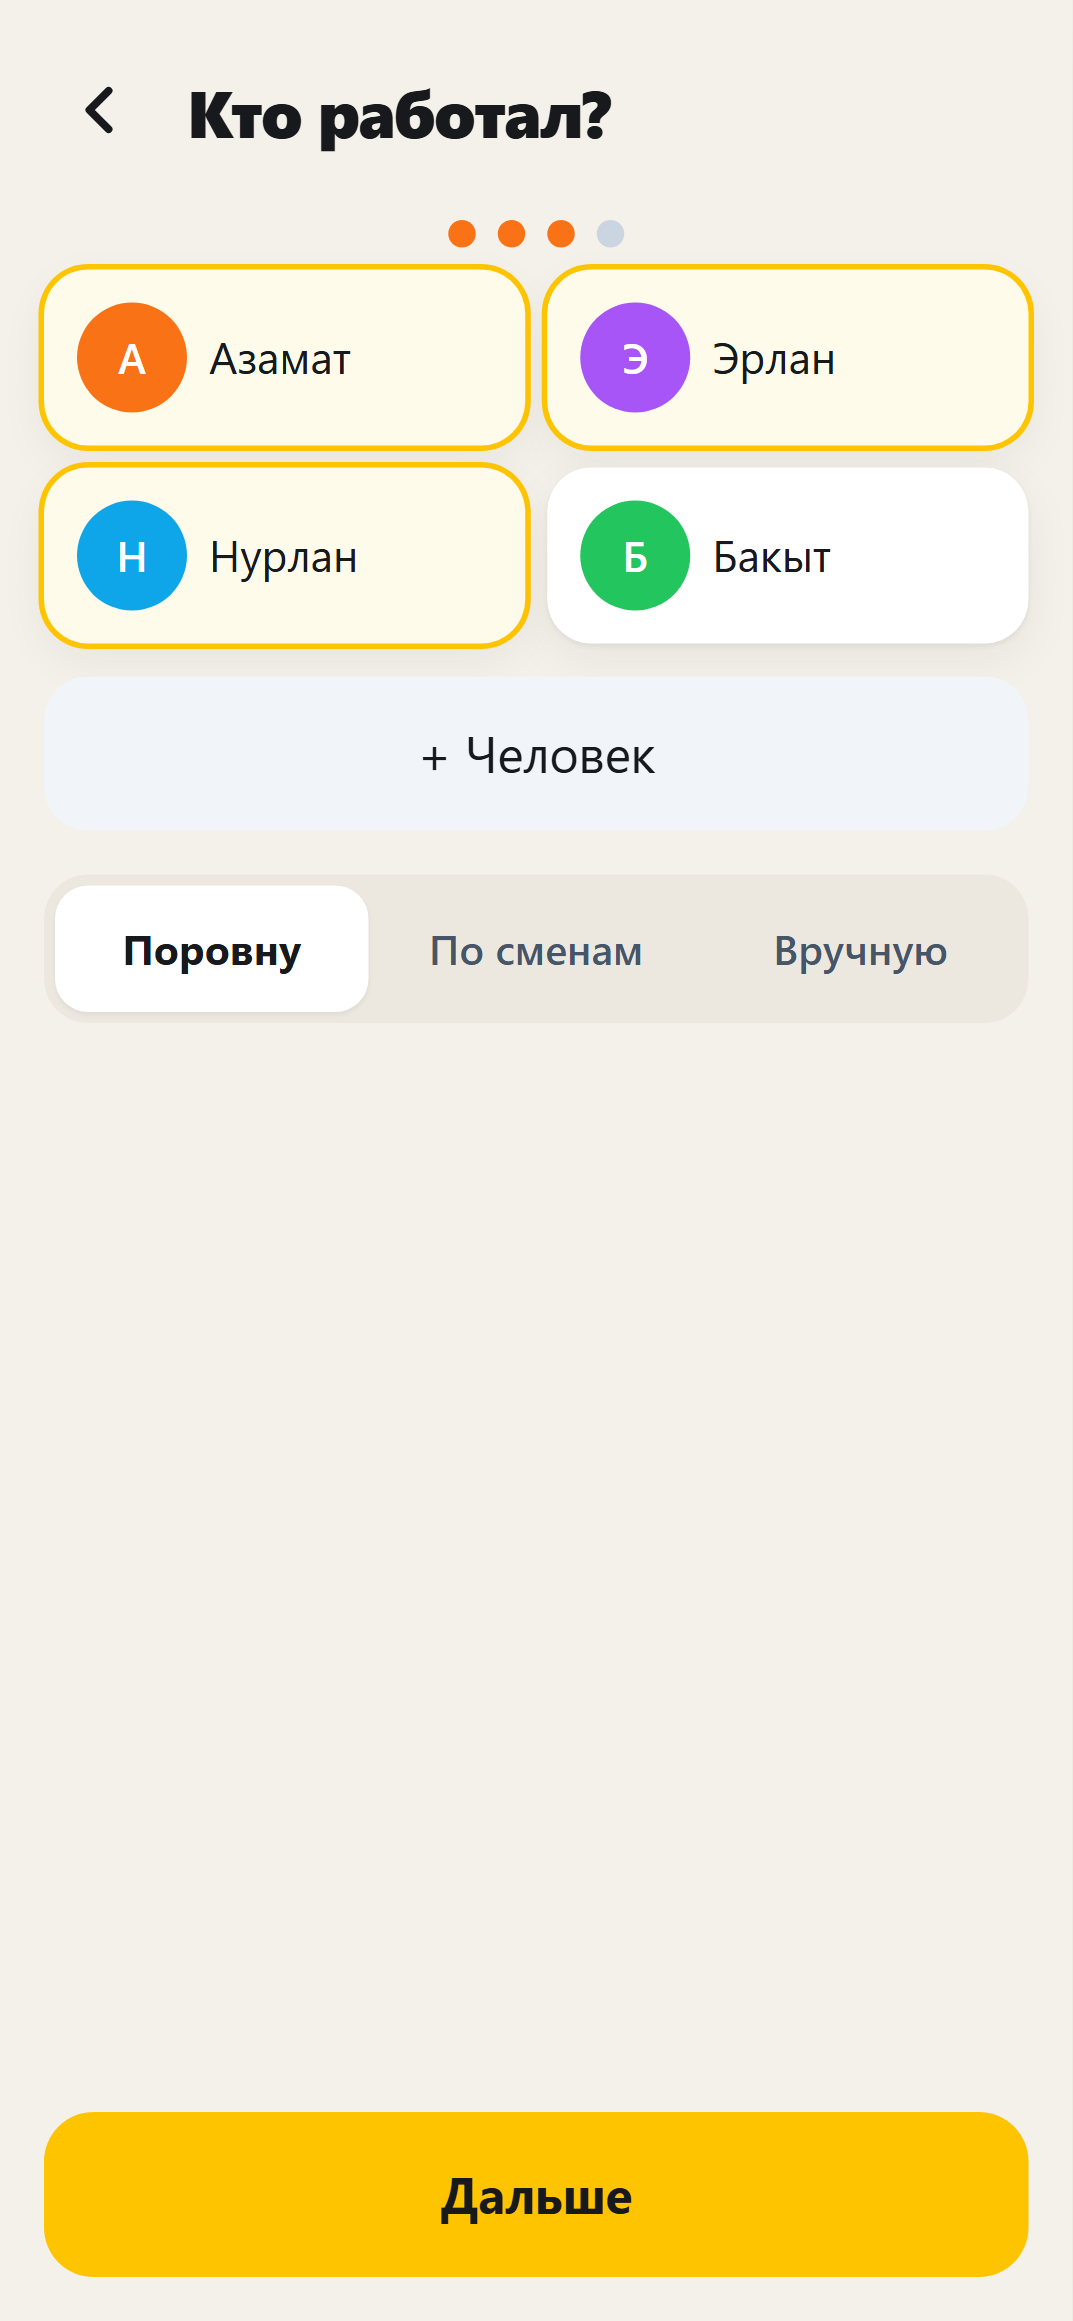
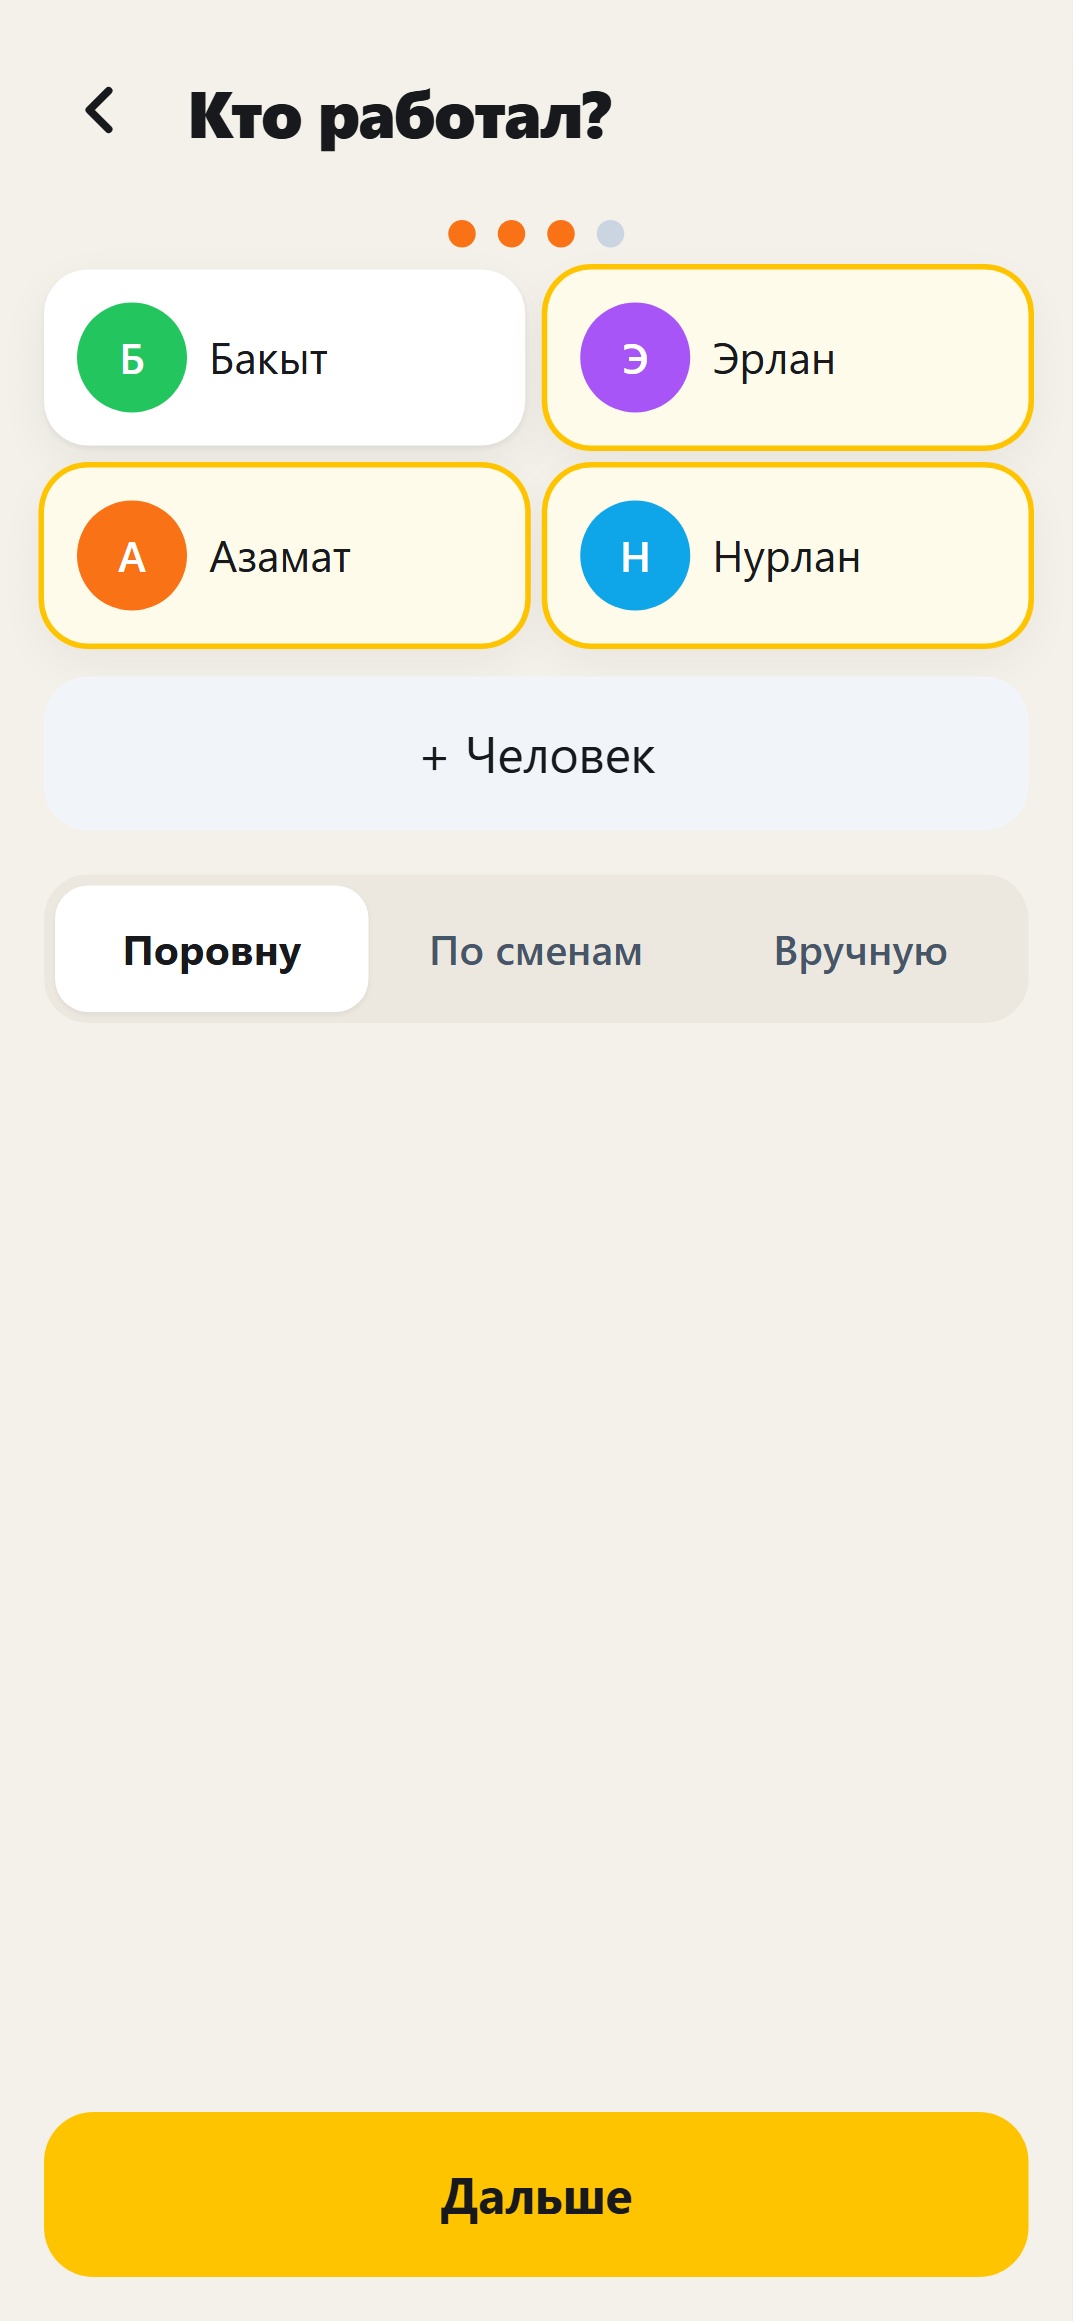
Добивка по адверсальной проверке
Перекличка: самоидентифицирующийся запрос — сохранённые галочки видны
при повторном открытии и смене даты; архивный объект не принимает записи;
правка записи остаётся в объекте самой записи, даже закрытом; тройки
чисел в карточках влезают в 360px.

diff --git a/src/screens/Objects.tsx b/src/screens/Objects.tsx
@@ -1,7 +1,7 @@
 import { useNavigate } from 'react-router-dom';
 import { Plus } from 'lucide-react';
 import { useT, useLangStore, formatDateShort } from '../i18n';
-import { formatMoney } from '../core/format';
+import { formatMoney, groupDigits } from '../core/format';
 import { useEntries, useObjects, useReceipts, useAdjustments, useSettings, useExpenses, byObject } from '../lib/hooks';
 import {
   activeEntries, doneTotal, acceptedTotal, customerOwes, notDeleted, objectStage,
@@ -63,9 +63,9 @@ export function Objects() {
               </span>
               <span className="mt-3 block"><StageStrip stage={s.stage} /></span>
               <span className="mt-3 grid grid-cols-3 gap-2">
-                <span className="min-w-0"><span className="block text-[12px] font-medium text-slate-500">{t('objects.done')}</span><span className="block truncate text-[15px] font-extrabold">{formatMoney(s.done)}</span></span>
-                <span className="min-w-0 text-center"><span className="block text-[12px] font-medium text-slate-500">{t('objects.accepted')}</span><span className="block truncate text-[15px] font-extrabold">{formatMoney(s.accepted)}</span></span>
-                <span className="min-w-0 text-right"><span className="block text-[12px] font-medium text-slate-500">{t('objects.owed')}</span><span className={`block truncate text-[15px] font-extrabold ${s.owed > 0 ? 'text-money-in' : ''}`}>{formatMoney(Math.max(0, s.owed))}</span></span>
+                <span className="min-w-0"><span className="block text-[12px] font-medium text-slate-500">{t('objects.done')}</span><span className="block truncate text-[15px] font-extrabold">{groupDigits(Math.round(s.done / 100))}</span></span>
+                <span className="min-w-0 text-center"><span className="block text-[12px] font-medium text-slate-500">{t('objects.accepted')}</span><span className="block truncate text-[15px] font-extrabold">{groupDigits(Math.round(s.accepted / 100))}</span></span>
+                <span className="min-w-0 text-right"><span className="block text-[12px] font-medium text-slate-500">{t('objects.owed')}</span><span className={`block truncate text-[15px] font-extrabold ${s.owed > 0 ? 'text-money-in' : ''}`}>{groupDigits(Math.round(Math.max(0, s.owed) / 100))}</span></span>
               </span>
             </Card>
           );

diff --git a/src/screens/WorkerCard.tsx b/src/screens/WorkerCard.tsx
@@ -6,7 +6,7 @@ import { useEntries, usePayouts, useWorkers, useWorkTypes } from '../lib/hooks';
 import {
   activeEntries, accruedForWorker, paidToWorker, withheldFromWorker, workerBalance, notDeleted,
 } from '../core/calc';
-import { formatMoney, formatMoneyExact, formatQuantity } from '../core/format';
+import { formatMoney, formatMoneyExact, formatQuantity, groupDigits } from '../core/format';
 import { updateWorker, nowIso } from '../db/repo';
 import { sendText } from '../lib/report';
 import { useToast } from '../state/toast';
@@ -116,9 +116,9 @@ export function WorkerCard() {
             {formatMoney(Math.abs(balance))}
           </span>
           <span className="mt-3 grid grid-cols-3 gap-2">
-            <span className="min-w-0"><span className="block text-[12px] font-medium text-slate-500">{t('workers.earned')}</span><span className="block truncate text-[15px] font-extrabold">{formatMoney(accrued)}</span></span>
-            <span className="min-w-0 text-center"><span className="block text-[12px] font-medium text-slate-500">{t('workers.got')}</span><span className="block truncate text-[15px] font-extrabold">{formatMoney(paid)}</span></span>
-            <span className="min-w-0 text-right"><span className="block text-[12px] font-medium text-slate-500">{t('workers.withheld')}</span><span className="block truncate text-[15px] font-extrabold">{formatMoney(withheld)}</span></span>
+            <span className="min-w-0"><span className="block text-[12px] font-medium text-slate-500">{t('workers.earned')}</span><span className="block truncate text-[15px] font-extrabold">{groupDigits(Math.round(accrued / 100))}</span></span>
+            <span className="min-w-0 text-center"><span className="block text-[12px] font-medium text-slate-500">{t('workers.got')}</span><span className="block truncate text-[15px] font-extrabold">{groupDigits(Math.round(paid / 100))}</span></span>
+            <span className="min-w-0 text-right"><span className="block text-[12px] font-medium text-slate-500">{t('workers.withheld')}</span><span className="block truncate text-[15px] font-extrabold">{groupDigits(Math.round(withheld / 100))}</span></span>
           </span>
         </Card>
 

diff --git a/src/screens/AttendanceToday.tsx b/src/screens/AttendanceToday.tsx
@@ -1,8 +1,10 @@
 import { useEffect, useState } from 'react';
 import { useNavigate } from 'react-router-dom';
+import { useLiveQuery } from 'dexie-react-hooks';
 import { Check } from 'lucide-react';
 import { useT, useLangStore, formatDateShort } from '../i18n';
-import { useActiveObject, useAttendance, useWorkers } from '../lib/hooks';
+import { db } from '../db/db';
+import { useActiveObject, useWorkers } from '../lib/hooks';
 import { setAttendance, todayStr } from '../db/repo';
 import { useToast } from '../state/toast';
 import { ScreenHeader } from '../components/ScreenHeader';
@@ -19,16 +21,22 @@ export function AttendanceToday() {
   const activeObject = useActiveObject();
   const workers = useWorkers().filter((w) => !w.archivedAt);
   const [date, setDate] = useState(todayStr());
-  const saved = useAttendance(activeObject?.id, date);
   const [ids, setIds] = useState<string[]>([]);
   const [loadedFor, setLoadedFor] = useState('');
 
-  // Подставляем сохранённое за день, когда запрос за этот день действительно отработал
+  // Результат сам называет свой ключ: при смене объекта или даты хук отдаёт
+  // устаревшее значение прошлого запроса, и по ключу мы его отбрасываем
+  const saved = useLiveQuery(async () => {
+    if (!activeObject) return undefined;
+    const rec = (await db.attendance.where({ objectId: activeObject.id, date }).first()) ?? null;
+    return { key: `${activeObject.id}:${date}`, rec };
+  }, [activeObject?.id, date]);
+
   useEffect(() => {
-    if (!activeObject || saved === undefined) return;
+    if (!activeObject || !saved) return;
     const key = `${activeObject.id}:${date}`;
-    if (loadedFor === key) return;
-    setIds(saved?.workerIds ?? []);
+    if (saved.key !== key || loadedFor === key) return;
+    setIds(saved.rec?.workerIds ?? []);
     setLoadedFor(key);
   }, [saved, date, activeObject, loadedFor]);
 

diff --git a/src/screens/WorkWizard.tsx b/src/screens/WorkWizard.tsx
@@ -181,17 +181,19 @@ export function WorkWizard() {
   const manualSum = shares.reduce((s, x) => s + x.amount, 0);
   const manualRemainder = totals.workersTotal - manualSum;
   const manualInvalid = draft.splitMode === 'manual' && manualRemainder !== 0;
-  const canSave = quantity > 0 && draft.workerIds.length > 0 && !manualInvalid && !!workType && !!activeObject;
+  // Правка живёт в объекте самой записи, даже если он уже закрыт
+  const targetObjectId = isEdit ? editEntry!.objectId : activeObject?.id;
+  const canSave = quantity > 0 && draft.workerIds.length > 0 && !manualInvalid && !!workType && !!targetObjectId;
 
   async function save() {
-    if (!canSave || !workType || !activeObject) return;
+    if (!canSave || !workType || !targetObjectId) return;
     let note = draft.note.trim();
     if (draft.areaMode) {
       const dims = `${draft.lengthInput}×${draft.heightInput}${draft.openingInputs.length ? ` − ${draft.openingInputs.join(' − ')}` : ''} м²`;
       note = note ? `${dims}. ${note}` : dims;
     }
     const data = {
-      objectId: activeObject.id,
+      objectId: targetObjectId,
       workTypeId: workType.id,
       date: draft.date || todayStr(),
       quantity,
@@ -221,7 +223,7 @@ export function WorkWizard() {
       ? await reviseWorkEntry(editId!, data)
       : await addWorkEntry(data);
     if (draft.rememberRate && priceChanged) {
-      await upsertRate(activeObject.id, workType.id, customerPrice, workerPrice);
+      await upsertRate(targetObjectId, workType.id, customerPrice, workerPrice);
     }
     // Назад по иерархии: снимаем все шаги мастера (и устаревшую карточку при правке)
     const idx = historyIdx();

diff --git a/src/screens/ObjectPrices.tsx b/src/screens/ObjectPrices.tsx
@@ -86,10 +86,10 @@ export function ObjectPrices() {
         )}
 
         <div className="mt-4 flex flex-col gap-2">
-          {settings.activeObjectId !== o.id && !o.closedAt && (
+          {settings.activeObjectId !== o.id && !o.closedAt && !o.archivedAt && (
             <BigButton label={t('objects.makeCurrent')} tone="neutral" onClick={() => void updateSettings({ activeObjectId: o.id })} />
           )}
-          {!o.closedAt && (
+          {!o.closedAt && !o.archivedAt && (
             <BigButton label={t('object.closeObject')} tone="neutral" onClick={() => navigate(`/objects/${id}/close`)} testId="to-close" />
           )}
           <button className="min-h-[44px] text-[15px] font-semibold text-slate-500" onClick={() => { void updateObject(id, { archivedAt: o.archivedAt ? undefined : nowIso() }); navigate(-1); }}>

diff --git a/src/screens/ObjectScreen.tsx b/src/screens/ObjectScreen.tsx
@@ -26,7 +26,7 @@ export function ObjectScreen() {
       <ScreenHeader
         title={o.name}
         sub={[o.customerName, o.paymentTerms].filter(Boolean).join(' · ') || undefined}
-        right={!isActive && !o.closedAt ? (
+        right={!isActive && !o.closedAt && !o.archivedAt ? (
           <button className="min-h-[44px] rounded-full bg-accent px-3 text-[13px] font-bold" onClick={() => void updateSettings({ activeObjectId: o.id })} data-testid="make-active">
             {t('objects.makeCurrent')}
           </button>
@@ -60,7 +60,7 @@ export function ObjectScreen() {
           testId="menu-result"
         />
 
-        {!o.closedAt && (
+        {!o.closedAt && !o.archivedAt && (
           <div className="sticky bottom-0 mt-auto bg-paper pt-3">
             <BigButton
               label={t('today.recordWork')}

diff --git a/src/lib/hooks.ts b/src/lib/hooks.ts
@@ -56,7 +56,8 @@ export function useCashMoves(): CashMove[] {
   return useLiveQuery(() => db.cashMoves.toArray(), []) ?? [];
 }
 
-// Кто вышел на объект в этот день: undefined — ещё грузится, null — записи нет
+// Кто вышел на объект в этот день (для чтения на «Сегодня»; экраны ввода
+// делают самоидентифицирующийся запрос сами — см. AttendanceToday)
 export function useAttendance(objectId: string | undefined, date: string): Attendance | null | undefined {
   return useLiveQuery(
     async () => (objectId ? (await db.attendance.where({ objectId, date }).first()) ?? null : null),
